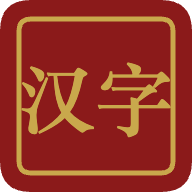
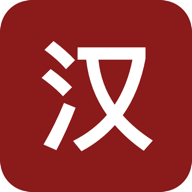
rebranding: HanziFlow → HanziPL, ikony nowe (汉 białe, bez border)
- index.html: title, apple-mobile-web-app-title, logo, onboarding (漢→汉, HanziPL)
- manifest.json: name/short_name → HanziPL
- sw.js: CACHE_NAME hanziflow-shell-v2 → hanzipl-shell-v1, komentarz nagłówkowy
- js/app.js: 3x 'kurs HanziFlow' → 'kurs HanziPL'
- icons/icon.svg + icon-maskable.svg: tylko znak 汉 (biały #fff), bez złotego obramowania, bez drugiego znaku
- icons/*.png: regenerowane z nowych SVG (192, 512, maskable-512)
- .claude/launch.json: name HanziFlow → HanziPL

diff --git a/index.html b/index.html
@@ -3,13 +3,13 @@
 <head>
 <meta charset="UTF-8">
 <meta name="viewport" content="width=device-width,initial-scale=1.0,maximum-scale=1.0,user-scalable=no">
-<title>HanziFlow</title>
+<title>HanziPL</title>
 <link rel="manifest" href="/manifest.json">
 <link rel="icon" href="/icons/icon.svg" type="image/svg+xml">
 <link rel="apple-touch-icon" href="/icons/icon-192.png">
 <meta name="apple-mobile-web-app-capable" content="yes">
 <meta name="apple-mobile-web-app-status-bar-style" content="black-translucent">
-<meta name="apple-mobile-web-app-title" content="HanziFlow">
+<meta name="apple-mobile-web-app-title" content="HanziPL">
 <meta name="theme-color" content="#8b1a1a">
 <link href="https://fonts.googleapis.com/css2?family=Inter:wght@400;500;600;700&family=Noto+Sans+SC:wght@400;700&display=swap" rel="stylesheet">
 <link rel="stylesheet" href="css/styles.css">
@@ -19,8 +19,8 @@
 
 <!-- ONBOARDING -->
 <div class="onboard" id="onboard" style="display:none">
-  <div class="onboard-hz">漢</div>
-  <div class="onboard-title">Witaj w HanziFlow!</div>
+  <div class="onboard-hz">汉</div>
+  <div class="onboard-title">Witaj w HanziPL!</div>
   <div class="onboard-sub">Ucz się chińskiego skutecznie<br>dzięki systemowi powtórek.</div>
   <div class="onboard-goal">
     <label>ILE SŁÓWEK DZIENNIE CHCESZ UCZYĆ?</label>
@@ -35,7 +35,7 @@
 </div>
 
 <div class="topbar">
-  <div class="logo">HanziFlow<small>学中文</small></div>
+  <div class="logo">HanziPL<small>学中文</small></div>
   <div class="topbar-right">
     <div class="streak-badge"><span class="fire">🔥</span><span id="streak-num">0</span> dni</div>
     <div class="topbar-account">

diff --git a/js/app.js b/js/app.js
@@ -2246,7 +2246,7 @@ function parseSourceLessonMeta(raw) {
 
 function getWordSourceLabel(w) {
   var meta = parseSourceLessonMeta(getRawWordLesson(w));
-  if (!meta) return 'Źródło: kurs HanziFlow';
+  if (!meta) return 'Źródło: kurs HanziPL';
   if (meta.lessonCode && meta.title) return 'Lekcja ' + meta.lessonCode + ' · ' + meta.title;
   return meta.fullLabel || ('Źródło: ' + meta.shortLabel);
 }
@@ -2265,7 +2265,7 @@ function getPrimaryLessonFromWords(words) {
   var firstSeen = [];
   var order = Object.create(null);
   words.forEach(function(w) {
-    var raw = getRawWordLesson(w) || 'kurs HanziFlow';
+    var raw = getRawWordLesson(w) || 'kurs HanziPL';
     if (!counts[raw]) {
       order[raw] = firstSeen.length;
       firstSeen.push(raw);
@@ -2283,7 +2283,7 @@ function getDistinctLessonCount(words) {
   if (!Array.isArray(words) || !words.length) return 0;
   var seen = Object.create(null);
   words.forEach(function(w) {
-    var raw = getRawWordLesson(w) || 'kurs HanziFlow';
+    var raw = getRawWordLesson(w) || 'kurs HanziPL';
     seen[raw] = true;
   });
   return Object.keys(seen).length;

diff --git a/sw.js b/sw.js
@@ -1,8 +1,8 @@
-// ── HanziFlow Service Worker ──────────────────────────
+// ── HanziPL Service Worker ────────────────────────────
 // Strategia: cache-first dla app shell, network-first dla reszty.
 // Brak: cachowania audio, push notifications, złożonej logiki offline.
 
-const CACHE_NAME = 'hanziflow-shell-v2';
+const CACHE_NAME = 'hanzipl-shell-v1';
 
 const APP_SHELL = [
   '/',
